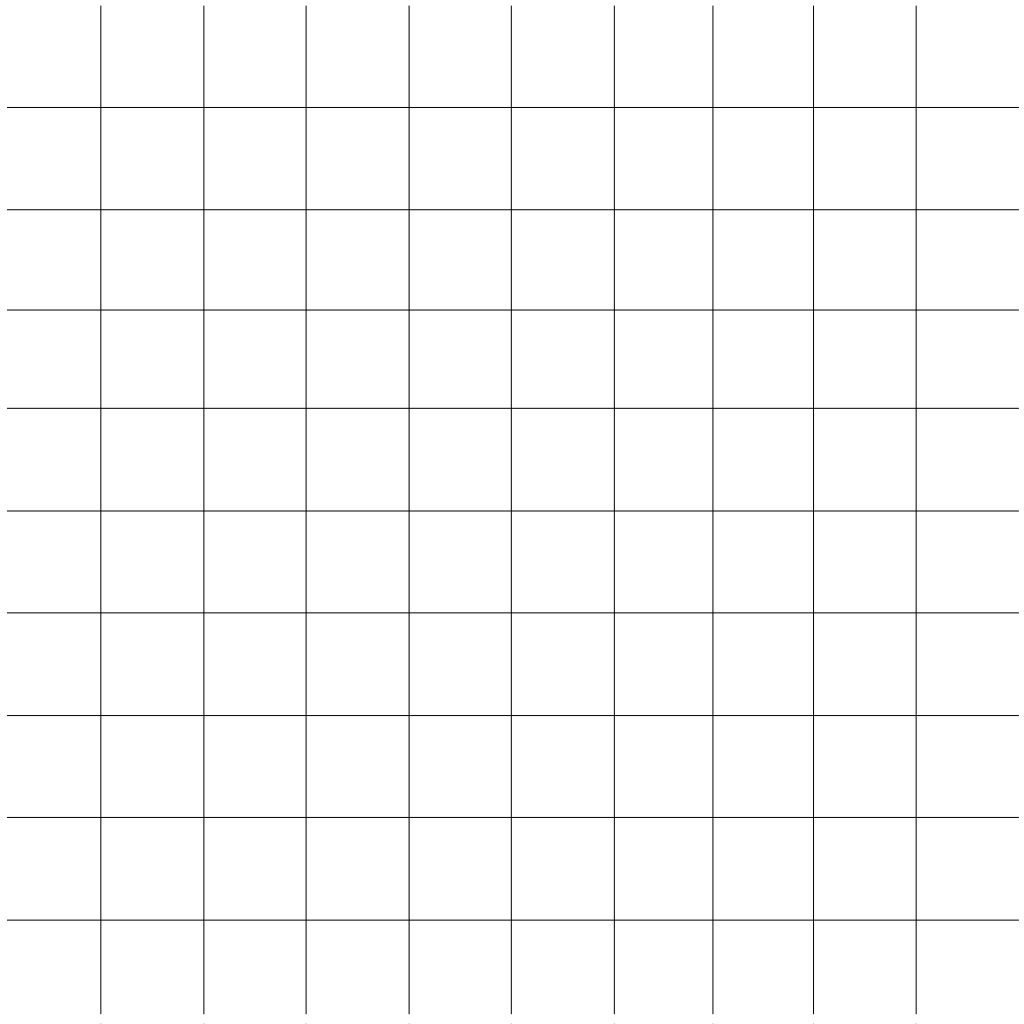
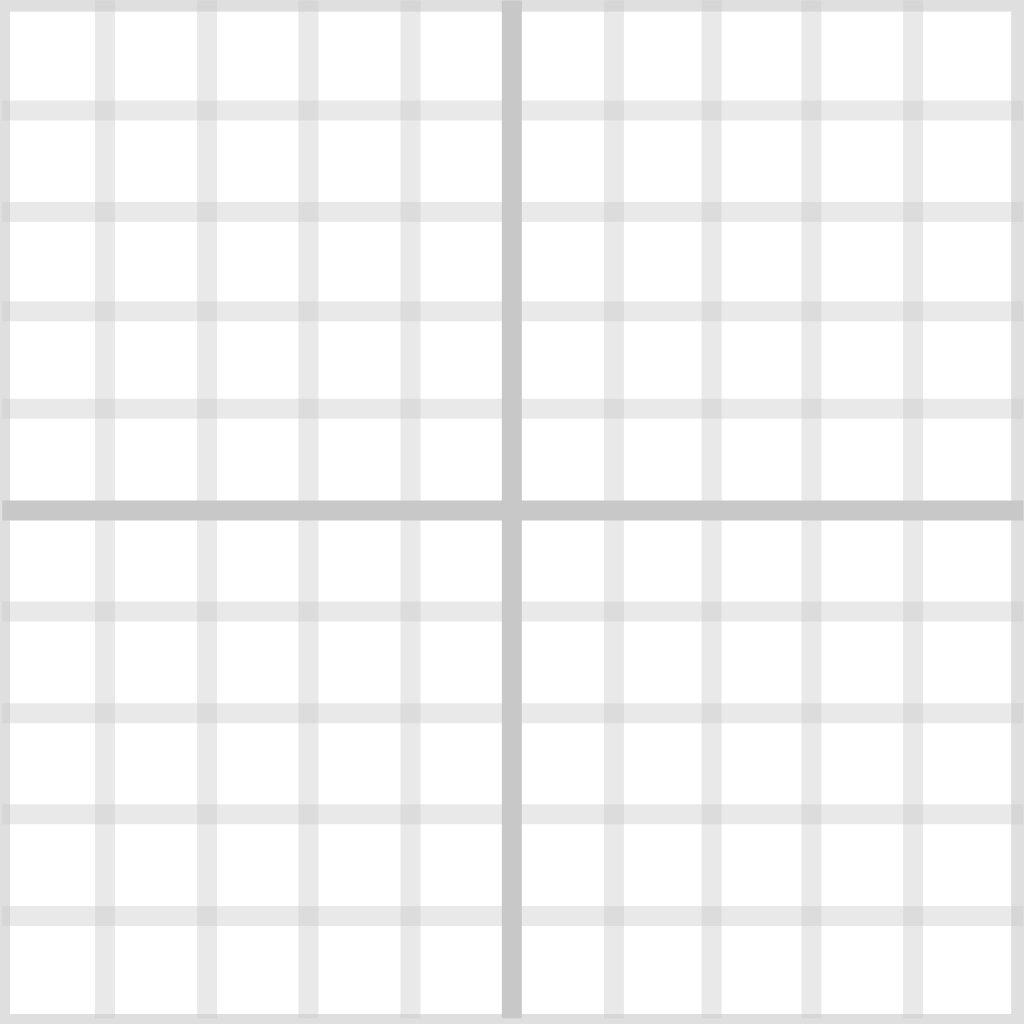
Merged with kchen and updated the visual view

diff --git a/BlinkAnalysis/AppViewer.cpp b/BlinkAnalysis/AppViewer.cpp
@@ -27,7 +27,6 @@
 
 osgViewer::Viewer* viewer;
 osg::Group* rootNode;
-osg::ref_ptr<osg::Vec3Array> points;
 
 bool running = false;
 bool visible = false;
@@ -65,7 +64,7 @@ void render(void *) {
 					osg::Geometry* geo = new osg::Geometry(); 
 
 					// Create array to hold points
-					points = new osg::Vec3Array(); 
+					osg::ref_ptr<osg::Vec3Array> points = new osg::Vec3Array(); 
 
 					// Get the map of all the Rigid Bodies attached to the client
 					std::map<int, RigidBody*>* bodyMap = client->getRigidBodyMap();
@@ -79,11 +78,6 @@ void render(void *) {
 						// Get pointer to Rigid Body
 						RigidBody* body = it_body->second;
 
-						// Create transformation matrix of the Rigid Body
-						osg::Matrix matrix;
-						matrix.setTrans(body->getPosition());
-						matrix.setRotate(body->getRotation());
-
 						// Get the vector of all the Markers attached to the Rigid Body
 						std::vector<Marker>* markers = body->getMarkersVector();
 				
@@ -96,12 +90,12 @@ void render(void *) {
 								// Get Pointer to marker
 								Marker m = *it_marker;
 								
-								// Get current position of marker by transforming
-								// the position relative to the attached Rigid Body.
-								osg::Vec3 pos = osg::Vec3( m.x, m.z, m.y ); //matrix * osg::Vec3( m.x, m.y, m.z );
+								// Get current position of marker
+								osg::Vec3 pos = osg::Vec3( m.x, m.z, m.y ); 
 
 								// Add marker to the points array
-								points->push_back( pos / 100.f ); 
+								points->push_back( pos );
+								//points->push_back( pos / 100.f ); 
 
 								// Update the current index
 								markerIndex++;
@@ -132,7 +126,10 @@ void render(void *) {
 					// Set the size of the points and turn off lighting
 					osg::ref_ptr<osg::StateSet> nodeState = node->getOrCreateStateSet();
 					nodeState->setMode(GL_LIGHTING, osg::StateAttribute::OFF);
-					nodeState->setAttribute( new osg::Point( 7.5f ), osg::StateAttribute::ON );
+					nodeState->setMode(GL_BLEND, osg::StateAttribute::ON);
+					nodeState->setMode(GL_POINT_SMOOTH, osg::StateAttribute::ON);
+					nodeState->setAttribute( new osg::Point( 10.0f ) , osg::StateAttribute::ON );
+					nodeState->setRenderingHint( osg::StateSet::TRANSPARENT_BIN );
 
 					// Add Node containing all the points to the scene
 					rootNode->addChild( node );
@@ -205,9 +202,12 @@ void AppViewer::initAppViewer(HWND hwnd)
 	osg::Geode* planeNode = Objects::createPlane();
 	Objects::applyTexture("Images/PlaneGrid.png", planeNode);
 	osg::ref_ptr<osg::StateSet> planeNodeState = planeNode->getOrCreateStateSet();
-	planeNodeState->setMode(GL_LIGHTING, osg::StateAttribute::OFF);
+	planeNodeState->setMode( GL_LIGHTING, osg::StateAttribute::OFF );
 	planeNodeState->setMode( GL_BLEND, osg::StateAttribute::ON );
+	planeNodeState->setRenderingHint( osg::StateSet::TRANSPARENT_BIN );
 	rootNode->addChild(planeNode);
+
+	rootNode->getOrCreateStateSet()->setMode( GL_ALPHA_TEST, osg::StateAttribute::ON ); 
 
 	// Add the root node to the scene
 	viewer->setSceneData(rootNode);

diff --git a/BlinkAnalysis/Objects.cpp b/BlinkAnalysis/Objects.cpp
@@ -49,10 +49,10 @@ osg::Geode *Objects::createPlane() {
 
 	// texture coordinates
 	osg::Vec2Array *texCoords = new osg::Vec2Array();
-	texCoords->push_back(osg::Vec2(0.05, 0.95));
-	texCoords->push_back(osg::Vec2(0.05, 0.05));
-	texCoords->push_back(osg::Vec2(0.95, 0.05));
-	texCoords->push_back(osg::Vec2(0.95, 0.95));
+	texCoords->push_back(osg::Vec2(0.0, 1.0));
+	texCoords->push_back(osg::Vec2(0.0, 0.0));
+	texCoords->push_back(osg::Vec2(1.0, 0.0));
+	texCoords->push_back(osg::Vec2(1.0, 1.0));
 
 	osg::Geometry *geometry = new osg::Geometry();
 	geometry->setVertexArray(vertexArray);

diff --git a/BlinkAnalysis/RigidBody.h b/BlinkAnalysis/RigidBody.h
@@ -9,29 +9,7 @@
 #include <osg/AutoTransform>
 
 #include "NatNetTypes.h"
-
-// Holds the data for an OptiTrack Marker
-class Marker {
-public:
-	int id;
-	float x, y, z;
-	float size;
-
-	Marker() {
-		this->id = 0;
-		this->x = 0; 
-		this->y = 0; 
-		this->z = 0; 
-		this->size = 0;}
-
-	Marker(int id, float x, float y, float z, float size = 0) {
-		this->id = id;
-		this->x = x;
-		this->y = y;
-		this->z = z;
-		this->size = size;
-	}
-};
+#include "Marker.h"
 
 /*
  * The RigidBody class handles transformation data

diff --git a/BlinkAnalysis/Marker.h b/BlinkAnalysis/Marker.h
@@ -1,0 +1,28 @@
+/**
+ * Marker.h
+ * Created By: Michael Feist
+ */
+
+#pragma once
+// Holds the data for an OptiTrack Marker
+class Marker {
+public:
+	int id;
+	float x, y, z;
+	float size;
+
+	Marker() {
+		this->id = 0;
+		this->x = 0; 
+		this->y = 0; 
+		this->z = 0; 
+		this->size = 0;}
+
+	Marker(int id, float x, float y, float z, float size = 0) {
+		this->id = id;
+		this->x = x;
+		this->y = y;
+		this->z = z;
+		this->size = size;
+	}
+};
